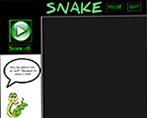
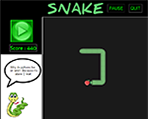
kjh

diff --git a/Snake/Snake_main.py b/Snake/Snake_main.py
@@ -30,10 +30,12 @@ class snake:
 
         self.Frame_main1_wind2 = Canvas(self.show_rules, bg = 'red', relief = GROOVE)
         self.Frame_main1_wind2.pack(ipadx = 670, ipady = 530)
-        #self.Fond_Frame_main1_wind2 = PhotoImage(file = "thumbnail/Tete2.png")
-        #self.Frame_main1_wind2.create_image(335,265,image =Fond_Frame_main1_wind2)
+
+        self.Fond_Frame_main1_wind2 = PhotoImage(file = "thumbnail/Snake2.png")
+        self.Frame_main1_wind2.create_image(335,265,image =self.Fond_Frame_main1_wind2)
+
         self.Frame_main2_wind2 = Frame(self.Frame_main1_wind2,width = 550, height = 425, relief = GROOVE)
-        self.Frame_main2_wind2.place(x = 60, y = 45)
+        self.Frame_main2_wind2.place(x = 60, y = 58)
         self.Rules = Label(self.Frame_main2_wind2, text = 'Les règles:', font = ("Berlin Sans FB", 23), relief = GROOVE)
         self.Rules.place(x = 200, y =5)
 
